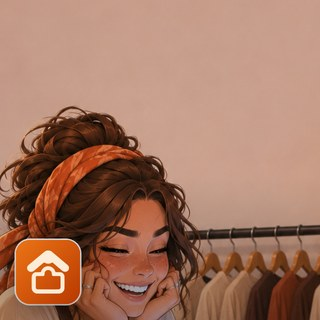
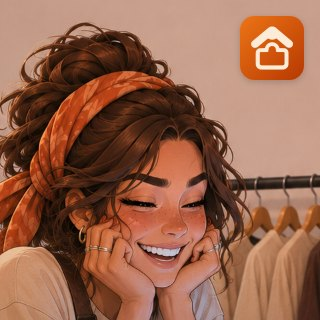
sugerencia: la foto chica, recortada a cabeza y hombros con el ícono de Tu Local Web en la esquina libre
Antes, dos tercios eran pared, la cara quedaba cortada en el mentón y el ícono le tapaba la mejilla.
Sale de la misma foto (juli-v2/g-tincho), 320×320; al ser cuadrada, la web la centra.

Claude-Session: https://claude.ai/code/session_019W2t1BbE2dVYidNozKPcir

diff --git a/apps/web/src/lib/panel/TarjetaSugerencia.svelte b/apps/web/src/lib/panel/TarjetaSugerencia.svelte
@@ -171,7 +171,7 @@
 		width: 100%;
 		height: 100%;
 		object-fit: cover;
-		object-position: 50% 100%;
+		object-position: 50% 50%;
 	}
 	.textos {
 		display: flex;
